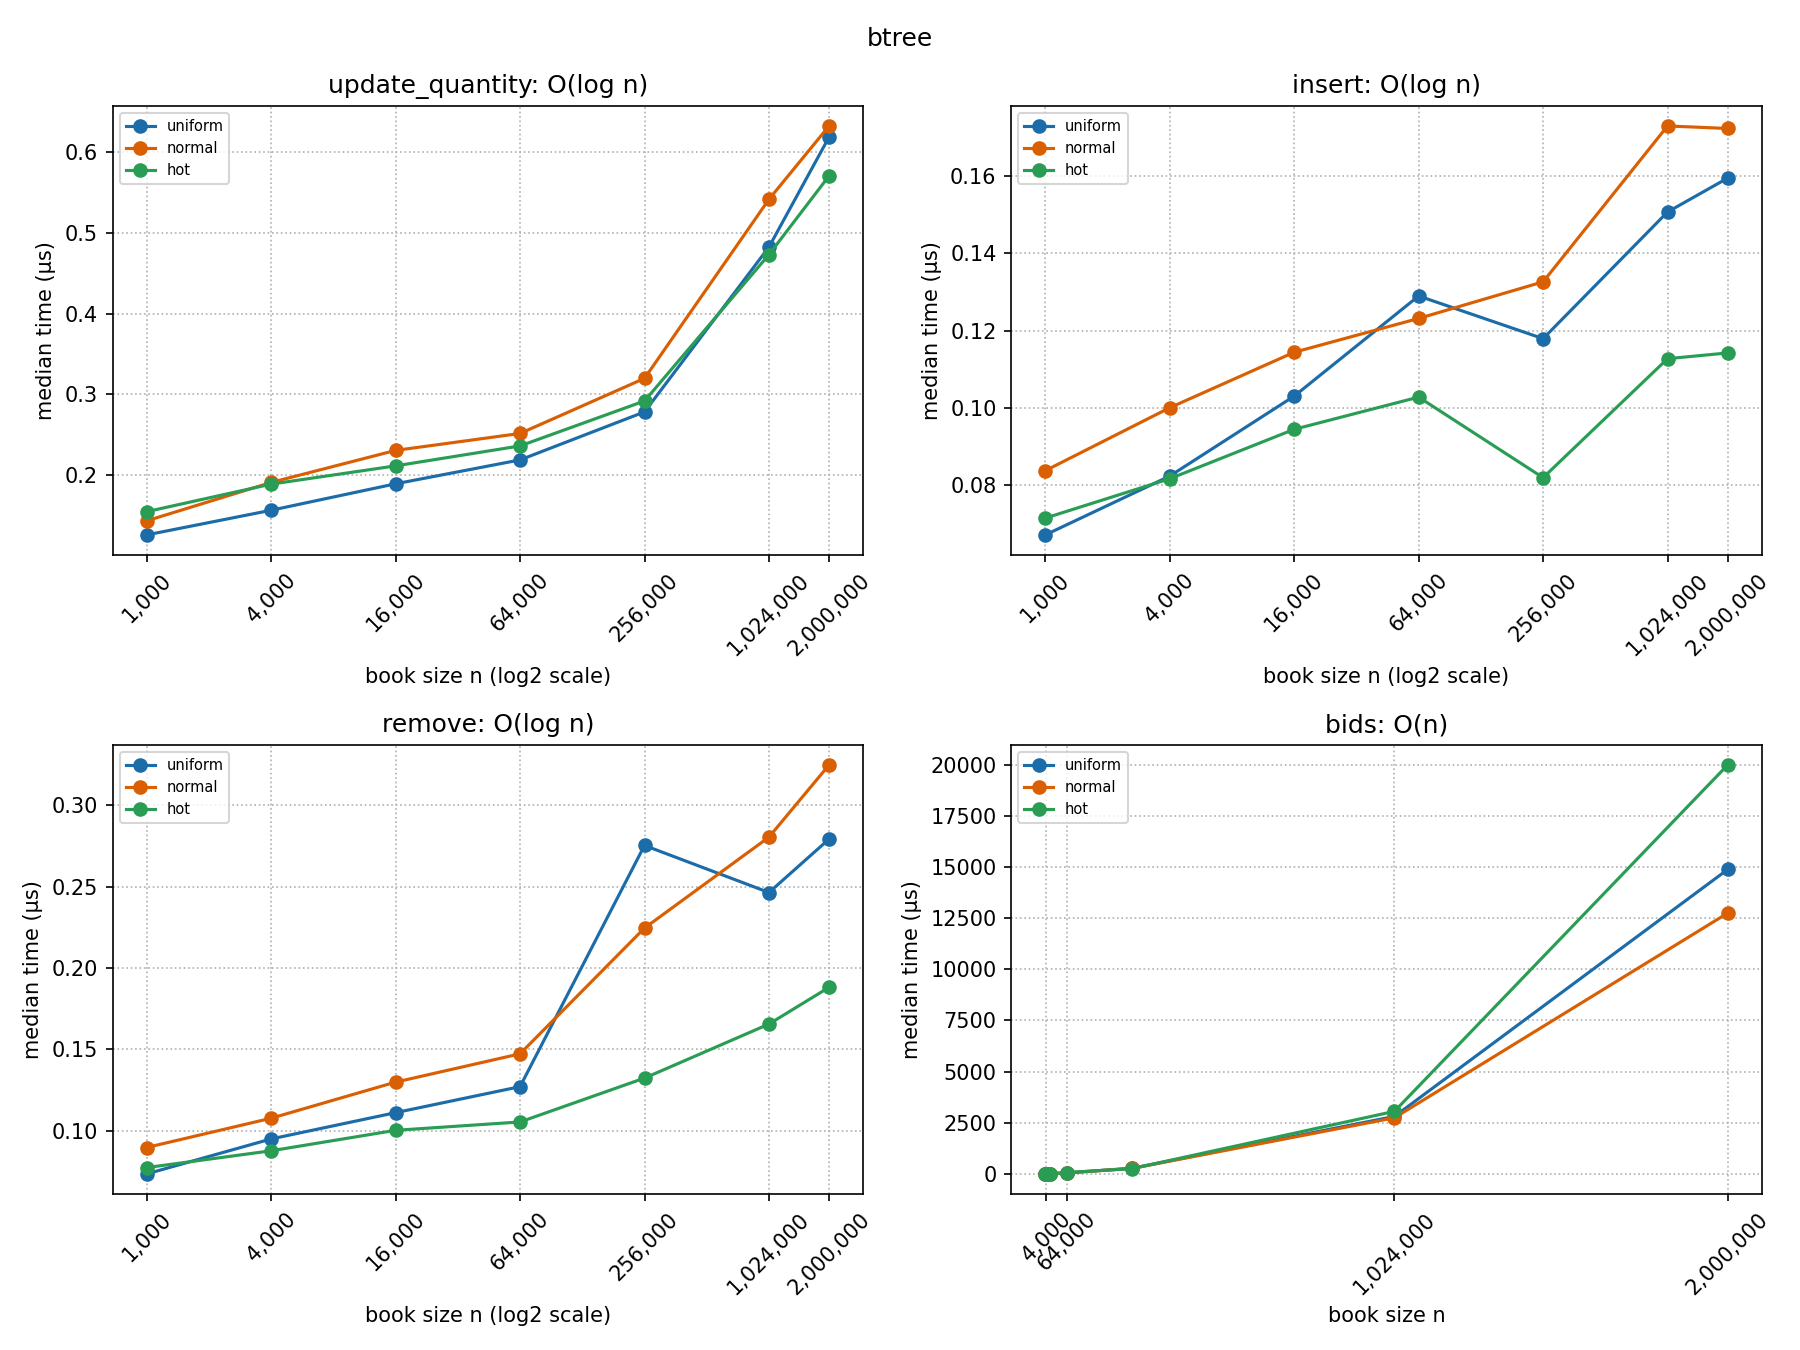
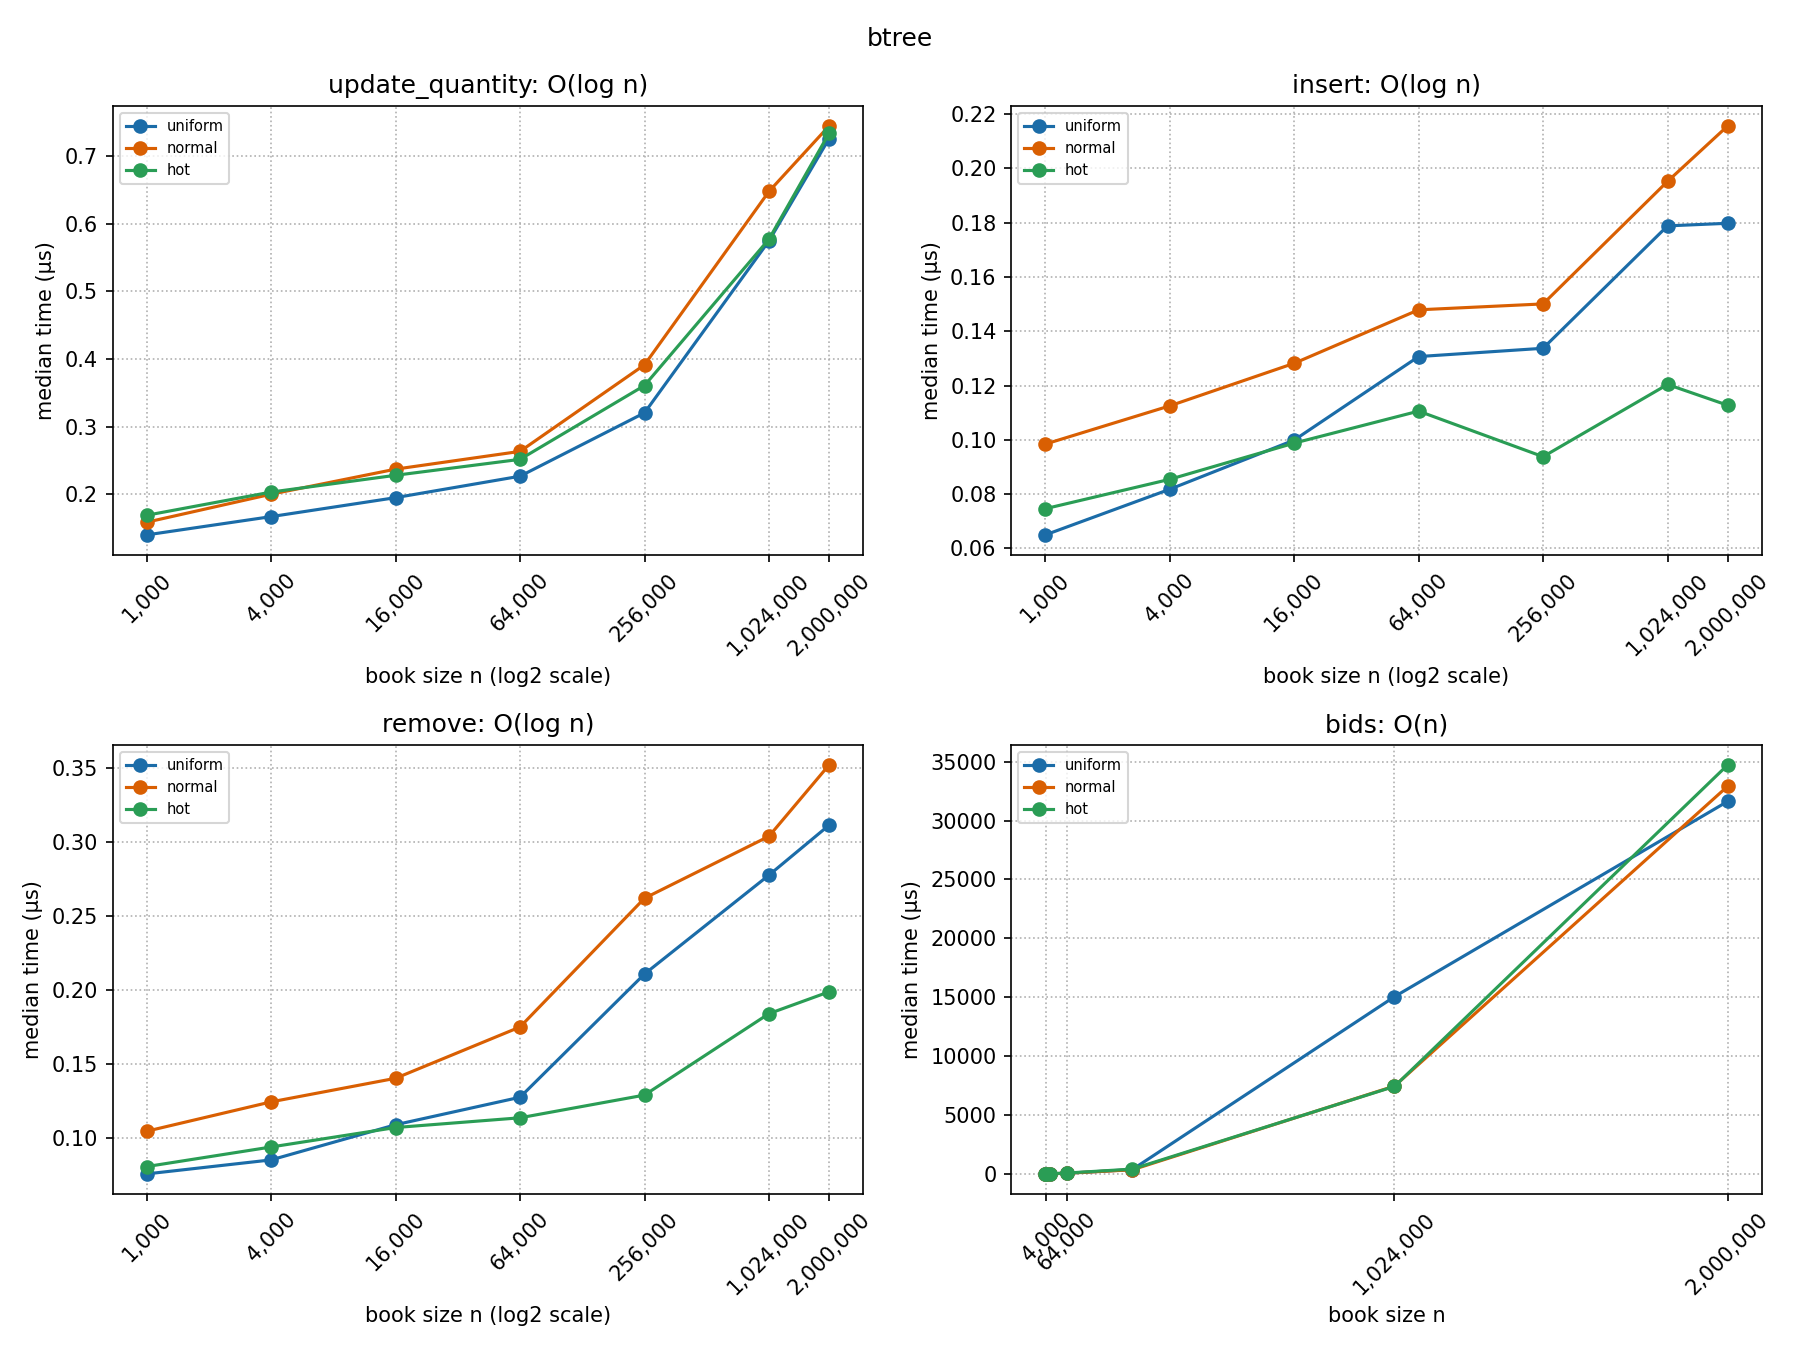
use BTreeMap

diff --git a/src/store/btree.rs b/src/store/btree.rs
@@ -1,50 +1,27 @@
-//! One `BTreeSet` of orders per side, plus a `HashMap` from order id to where
-//! the order sits.
+//! One `BTreeMap` per side from (price, timestamp, id) to the order, plus a
+//! `HashMap` from order id to what is needed to rebuild that key.
 //!
-//! - Each set holds the orders themselves, sorted by `Order::cmp_book_priority`
-//!   (price best first, then timestamp, then id), so `bids` / `asks` read the
-//!   tree in order with no per-order lookup.
-//! - `index` keeps only the fields that sort an order, enough to rebuild a
-//!   probe that finds it in its set.
+//! - Bids are keyed `(Reverse(price), timestamp, id)` and asks `(price,
+//!   timestamp, id)`, so iterating a map yields orders best first.
+//! - The maps own the orders, so `bids` / `asks` read them in order with no
+//!   per-order lookup.
 //!
 //! | Op | Cost |
 //! | --- | --- |
 //! | `insert` / `remove` / `update` | O(log n), n = orders on that side |
 //! | `bids` / `asks` | O(k) for k orders returned |
 
-use std::cmp::Ordering;
-use std::collections::{BTreeSet, HashMap};
+use std::cmp::Reverse;
+use std::collections::{BTreeMap, HashMap};
 
 use crate::error::BookError;
 use crate::order_book::OrderBook;
-use crate::types::{Order, OrderId, Price, Quantity, Side, Timestamp};
+use crate::types::{Order, OrderId, Price, Side, Timestamp};
 
-/// An order in its side's set. Ordered by `cmp_book_priority`, which never
-/// looks at quantity, so a probe with any quantity finds the stored order.
-#[derive(Debug, Clone)]
-struct Entry(Order);
+type BidKey = (Reverse<Price>, Timestamp, OrderId);
+type AskKey = (Price, Timestamp, OrderId);
 
-impl Ord for Entry {
-    fn cmp(&self, other: &Self) -> Ordering {
-        self.0.cmp_book_priority(&other.0)
-    }
-}
-
-impl PartialOrd for Entry {
-    fn partial_cmp(&self, other: &Self) -> Option<Ordering> {
-        Some(self.cmp(other))
-    }
-}
-
-impl PartialEq for Entry {
-    fn eq(&self, other: &Self) -> bool {
-        self.cmp(other) == Ordering::Equal
-    }
-}
-
-impl Eq for Entry {}
-
-/// Where an order lives: the fields `Entry` sorts by.
+/// Enough to rebuild an order's key in its side's map.
 #[derive(Debug, Clone, Copy)]
 struct Locator {
     side: Side,
@@ -52,17 +29,11 @@ struct Locator {
     timestamp: Timestamp,
 }
 
-/// Placeholder quantity for probes; ignored by `Entry`'s ordering.
-const PROBE_QUANTITY: Quantity = match Quantity::from_ticks(1) {
-    Some(q) => q,
-    None => unreachable!(),
-};
-
 #[derive(Debug, Default, Clone)]
 pub struct BTreeOrderStore {
     index: HashMap<OrderId, Locator>,
-    bids: BTreeSet<Entry>,
-    asks: BTreeSet<Entry>,
+    bids: BTreeMap<BidKey, Order>,
+    asks: BTreeMap<AskKey, Order>,
 }
 
 impl BTreeOrderStore {
@@ -70,32 +41,24 @@ impl BTreeOrderStore {
         Self::default()
     }
 
-    fn side_mut(&mut self, side: Side) -> &mut BTreeSet<Entry> {
-        match side {
-            Side::Buy => &mut self.bids,
-            Side::Sell => &mut self.asks,
-        }
-    }
-
     /// Adds `order` to its side and records where it is.
     fn link(&mut self, order: Order) {
         let loc = Locator { side: order.side, price: order.price, timestamp: order.timestamp };
         self.index.insert(order.id, loc);
-        self.side_mut(loc.side).insert(Entry(order));
+        match order.side {
+            Side::Buy => self.bids.insert((Reverse(order.price), order.timestamp, order.id), order),
+            Side::Sell => self.asks.insert((order.price, order.timestamp, order.id), order),
+        };
     }
 
     /// Removes an order by id and returns it, or `None` if the id is unknown.
     fn unlink(&mut self, id: OrderId) -> Option<Order> {
         let loc = self.index.remove(&id)?;
-        let probe = Entry(Order {
-            id,
-            side: loc.side,
-            price: loc.price,
-            quantity: PROBE_QUANTITY,
-            timestamp: loc.timestamp,
-        });
-        let Entry(order) = self.side_mut(loc.side).take(&probe).expect("indexed order is in its set");
-        Some(order)
+        let order = match loc.side {
+            Side::Buy => self.bids.remove(&(Reverse(loc.price), loc.timestamp, id)),
+            Side::Sell => self.asks.remove(&(loc.price, loc.timestamp, id)),
+        };
+        Some(order.expect("indexed order is in its map"))
     }
 }
 
@@ -120,10 +83,10 @@ impl OrderBook for BTreeOrderStore {
     }
 
     fn bids(&self) -> Vec<&Order> {
-        self.bids.iter().map(|Entry(o)| o).collect()
+        self.bids.values().collect()
     }
 
     fn asks(&self) -> Vec<&Order> {
-        self.asks.iter().map(|Entry(o)| o).collect()
+        self.asks.values().collect()
     }
 }

diff --git a/README.md b/README.md
@@ -43,9 +43,9 @@ Resting orders are ordered by:
 
 Three implementations of `OrderBook` live in `src/store`:
 
-**Baseline: `btree.rs`.** One `BTreeSet` of whole orders per side, sorted by (price, timestamp, id), plus a `HashMap<OrderId, Locator>` that keeps each order's side, price and timestamp so it can be found in its set in O(log n). We used Rust's `BTreeMap` instead of red-black binary tree.
+**Baseline: `btree.rs`.** One `BTreeMap<(price, timestamp, id), Order>` per side (bids use `Reverse(price)`), plus a `HashMap<OrderId, Locator>` that keeps each order's side, price and timestamp so its key can be rebuilt and it can be removed in O(log n). We used Rust's B-tree instead of red-black binary tree.
 
-**Price-level stores.** When n is large, the tree gets deeper and its nodes no longer fit in L1/L2 cache, so each jump between nodes gets expensive. The next two implementations first find the order's price level, then work on the m orders queued at that price. Both keep each price's queue as a `BTreeMap` keyed by (timestamp, id), and store orders inside the queue.
+**Price-level stores.** We tested two other implementations to see whether splitting the book by price beats one big tree at large n., grouping by price also suits common order-book queries such as best price and per-level totals (not benchmarked here). It first finds the order's price level, then works on the m orders queued there, in a `BTreeMap` keyed by (timestamp, id) that holds the orders themselves.
 
 - `bucket_map.rs`: per side, queues live in a `HashMap<PriceIdx, Queue>`, and a hierarchical bitset over the whole price grid keeps prices in order. Insert/remove/update cost O(log m), independent of L, the number of live prices.
 - `level_map.rs`: per side, queues live in a `BTreeMap<PriceIdx, Queue>`, which keeps prices in order by itself. Insert/remove/update cost O(log L + log m).
